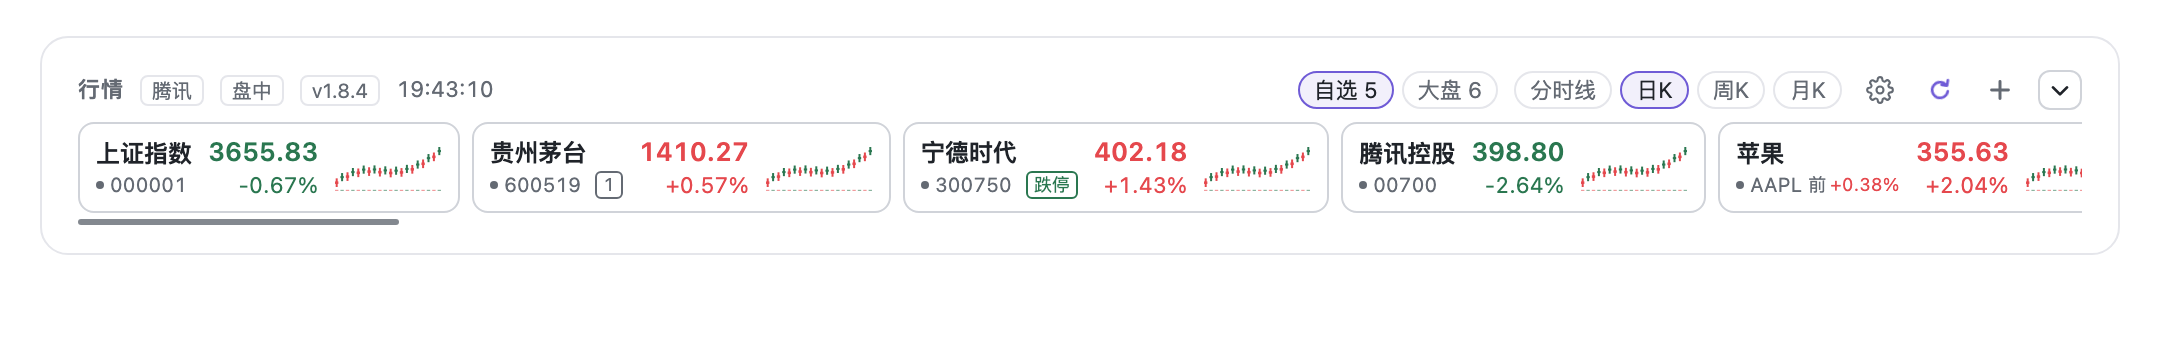
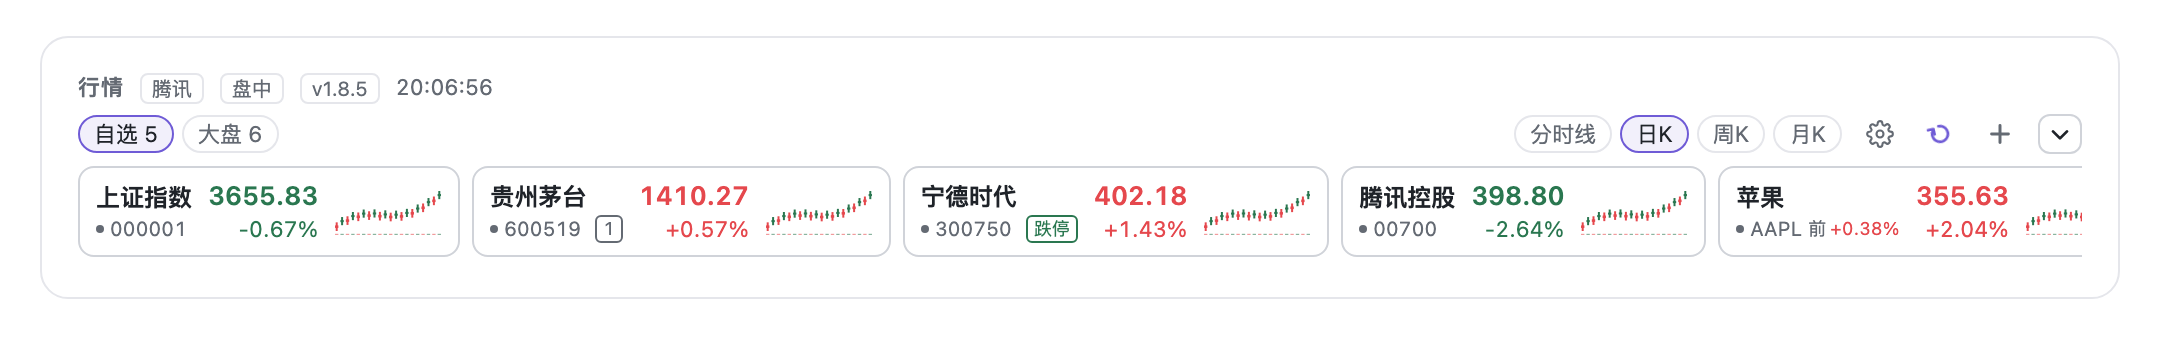
style(client): pin the header actions with a two-row layout (1.8.5)
The group pills, mini-chart pills and icons shared one row, so a group with a
longer name or count shifted every action to its right.

- Row 1: quote title, source, session, build and update time (plus the stale
  notice).
- Row 2: groups on the left in their own horizontal lane, a flexible gap, then
  the mini-chart pills and header icons pinned to the right. Group width changes
  no longer move the action buttons.
- Screenshots refreshed. 81 tests.

Local commit only; not pushed.

Changed region(s): [[0.031, 0.2059, 0.9926, 0.7647], [0.031, 0.8529, 0.9616, 0.8824], [0.9306, 0.2059, 0.9616, 0.2353]]

diff --git a/client.js b/client.js
@@ -16,7 +16,7 @@ window.__ModuleLoader__.load({
     const { useCallback, useEffect, useMemo, useRef, useState } = React
 
     const NS = 'stockTicker'
-    const BUILD = 'v1.8.4'
+    const BUILD = 'v1.8.5'
     const ENDPOINT = '/dsh-stock-ticker'
     const COLLAPSE_KEY = 'dsh-stock-ticker:collapsed'
     const STYLE_ID = 'stock-ticker'
@@ -378,11 +378,24 @@ window.__ModuleLoader__.load({
 }
 .dshst-head {
   display: flex;
-  align-items: center;
-  gap: 8px;
+  flex-direction: column;
+  align-items: stretch;
+  gap: 4px;
   min-height: 20px;
   color: var(--dsw-alias-label-secondary);
+}
+.dshst-headTop {
+  display: flex;
+  align-items: center;
+  gap: 8px;
   flex-wrap: wrap;
+  min-height: 18px;
+}
+.dshst-headBar {
+  display: flex;
+  align-items: center;
+  gap: 8px;
+  min-width: 0;
 }
 .dshst-title {
   font-size: 11px;
@@ -909,7 +922,18 @@ window.__ModuleLoader__.load({
 .dshst-result:hover { background: var(--dsw-alias-interactive-bg-hover); }
 .dshst-resultCode { font-size: 10px; color: var(--dsw-alias-label-secondary); font-variant-numeric: tabular-nums; }
 .dshst-resultType { margin-left: auto; font-size: 10px; color: var(--dsw-alias-label-secondary); }
-.dshst-groups { display: flex; gap: 4px; align-items: center; flex-wrap: wrap; }
+.dshst-groups {
+  display: flex;
+  gap: 4px;
+  align-items: center;
+  flex: 0 1 auto;
+  min-width: 0;
+  overflow-x: auto;
+  scrollbar-width: none;
+}
+.dshst-groups::-webkit-scrollbar {
+  display: none;
+}
 .dshst-pill {
   padding: 0 7px;
   border: 1px solid var(--dsw-alias-border-l1);
@@ -3664,7 +3688,10 @@ window.__ModuleLoader__.load({
         h(
           'div',
           { className: 'dshst-head' },
-          h('span', { className: 'dshst-title' }, t('title')),
+          h(
+            'div',
+            { className: 'dshst-headTop' },
+            h('span', { className: 'dshst-title' }, t('title')),
           data?.source
             ? h(
                 'span',
@@ -3683,9 +3710,12 @@ window.__ModuleLoader__.load({
                 h('button', { type: 'button', className: 'dshst-link', onClick: load }, t('retry')),
               )
             : null,
-          notice ? h('span', { className: 'dshst-meta dshst-notice' }, notice) : null,
-          h('span', { className: 'dshst-spacer' }),
-          groups.length > 1
+            notice ? h('span', { className: 'dshst-meta dshst-notice' }, notice) : null,
+          ),
+          h(
+            'div',
+            { className: 'dshst-headBar' },
+            groups.length > 1
             ? h(
                 'span',
                 { className: 'dshst-groups' },
@@ -3705,6 +3735,7 @@ window.__ModuleLoader__.load({
                 ),
               )
             : null,
+            h('span', { className: 'dshst-spacer' }),
           prefs.showMiniChart === false
             ? null
             : h(
@@ -3860,6 +3891,7 @@ window.__ModuleLoader__.load({
                 ),
               )
             : null,
+          ),
         ),
         toast.length > 0
           ? h(

diff --git a/CHANGELOG.md b/CHANGELOG.md
@@ -460,3 +460,12 @@ Settings discoverability and the options the strip was missing.
   - a manual refresh also supersedes an in-flight poll instead of being skipped.
 - Test: clicking the second group activates it, requests `group=<id>` and marks
   the pill active. 81 tests.
+
+## 1.8.5 — 2026-11-13
+
+- The strip header is now two rows: the quote title, source, session, build and
+  update time stay on top; the watchlist groups and the action bar share the
+  second row. Groups sit on the left and scroll inside their own lane, the
+  mini-chart pills and header icons are pinned to the right, so switching to a
+  group with a longer name/count no longer shifts the action buttons.
+- No behaviour changes; screenshots refreshed. 81 tests.

diff --git a/README.md b/README.md
@@ -2,7 +2,7 @@
 
 **中文** · [English](README.en.md)
 
-![version](https://img.shields.io/badge/version-1.8.4-blue)
+![version](https://img.shields.io/badge/version-1.8.5-blue)
 ![license](https://img.shields.io/badge/license-MIT-green)
 ![dsh](https://img.shields.io/badge/DSH-0.2.x-6f5bd6)
 ![data](https://img.shields.io/badge/data-Tencent%20%7C%20Sina%20%7C%20Eastmoney-orange)

diff --git a/README.en.md b/README.en.md
@@ -2,7 +2,7 @@
 
 [中文](README.md) · **English**
 
-![version](https://img.shields.io/badge/version-1.8.4-blue)
+![version](https://img.shields.io/badge/version-1.8.5-blue)
 ![license](https://img.shields.io/badge/license-MIT-green)
 ![dsh](https://img.shields.io/badge/DSH-0.2.x-6f5bd6)
 ![data](https://img.shields.io/badge/data-Tencent%20%7C%20Sina%20%7C%20Eastmoney-orange)
